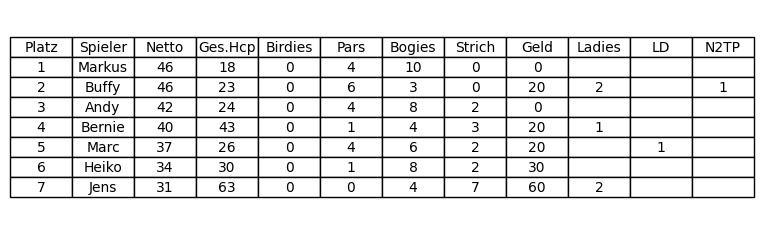
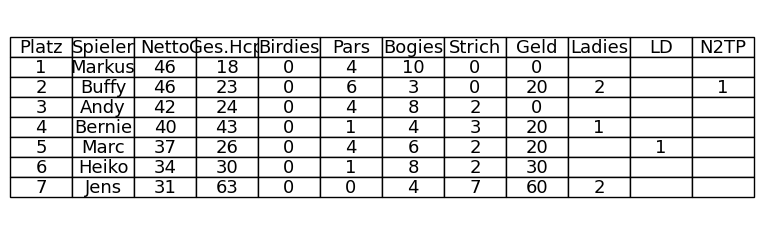
t

diff --git a/preprocess_pic.py b/preprocess_pic.py
@@ -1,46 +1,87 @@
 # preprocess_digits_no_rotate_no_crop.py
-import cv2
+try:
+    import cv2  # type: ignore
+    HAS_CV2 = True
+except Exception:
+    cv2 = None  # type: ignore
+    HAS_CV2 = False
+
 import numpy as np
 from pathlib import Path
 
+
+def _ensure_dir_for(path: str):
+    Path(path).parent.mkdir(parents=True, exist_ok=True)
+
+
 def preprocess(in_path: str, out_path: str):
-    img = cv2.imread(in_path)
-    assert img is not None, f"Bild nicht gefunden: {in_path}"
+    """
+    Preprocess scorecard images for OCR.
+    On platforms without OpenCV (e.g., Streamlit Cloud), falls back to PIL-based processing.
+    """
+    if HAS_CV2:
+        img = cv2.imread(in_path)
+        assert img is not None, f"Bild nicht gefunden: {in_path}"
 
-    # Signifikant verkleinern: längste Seite auf max. 1024 Pixel begrenzen
-    MAX_LONG_SIDE = 2048
-    h, w = img.shape[:2]
-    long_side = max(h, w)
-    if long_side > MAX_LONG_SIDE:
-        scale = MAX_LONG_SIDE / long_side
-        new_w, new_h = int(w * scale), int(h * scale)
-        img = cv2.resize(img, (new_w, new_h), interpolation=cv2.INTER_AREA)
+        # Signifikant verkleinern: längste Seite auf max. 1024 Pixel begrenzen
+        MAX_LONG_SIDE = 2048
+        h, w = img.shape[:2]
+        long_side = max(h, w)
+        if long_side > MAX_LONG_SIDE:
+            scale = MAX_LONG_SIDE / long_side
+            new_w, new_h = int(w * scale), int(h * scale)
+            img = cv2.resize(img, (new_w, new_h), interpolation=cv2.INTER_AREA)
 
-    # Graustufen
-    gray = cv2.cvtColor(img, cv2.COLOR_BGR2GRAY)
+        # Graustufen
+        gray = cv2.cvtColor(img, cv2.COLOR_BGR2GRAY)
 
-    # Leicht entrauschen (erhält Kanten)
-    gray = cv2.bilateralFilter(gray, d=5, sigmaColor=75, sigmaSpace=75)
+        # Leicht entrauschen (erhält Kanten)
+        gray = cv2.bilateralFilter(gray, d=5, sigmaColor=75, sigmaSpace=75)
 
-    # Adaptives Thresholding (robust bei ungleichmäßiger Beleuchtung)
-    bw = cv2.adaptiveThreshold(
-        gray, 255,
-        cv2.ADAPTIVE_THRESH_GAUSSIAN_C, cv2.THRESH_BINARY,
-        blockSize=31, C=8
-    )
+        # Adaptives Thresholding (robust bei ungleichmäßiger Beleuchtung)
+        bw = cv2.adaptiveThreshold(
+            gray, 255,
+            cv2.ADAPTIVE_THRESH_GAUSSIAN_C, cv2.THRESH_BINARY,
+            blockSize=31, C=8
+        )
 
-    # Kleine Artefakte entfernen
-    kernel = np.ones((2,2), np.uint8)
-    bw = cv2.morphologyEx(bw, cv2.MORPH_OPEN, kernel, iterations=1)
+        # Kleine Artefakte entfernen
+        kernel = np.ones((2, 2), np.uint8)
+        bw = cv2.morphologyEx(bw, cv2.MORPH_OPEN, kernel, iterations=1)
 
-    # Leicht Kontrast anheben
-    bw = cv2.convertScaleAbs(bw, alpha=1.15, beta=0)
+        # Leicht Kontrast anheben
+        bw = cv2.convertScaleAbs(bw, alpha=1.15, beta=0)
 
-    # Verlustfrei speichern (stark komprimiertes PNG)
-    Path(out_path).parent.mkdir(parents=True, exist_ok=True)
-    cv2.imwrite(out_path, bw, [cv2.IMWRITE_PNG_COMPRESSION, 9])
+        # Verlustfrei speichern (stark komprimiertes PNG)
+        _ensure_dir_for(out_path)
+        cv2.imwrite(out_path, bw, [cv2.IMWRITE_PNG_COMPRESSION, 9])
+    else:
+        # Fallback ohne OpenCV: PIL verwenden
+        from PIL import Image, ImageOps, ImageFilter
 
-    print(["Pic preprocess done: ", out_path])
+        img = Image.open(in_path)
+        # Signifikant verkleinern: längste Seite auf max. 1024 Pixel
+        MAX_LONG_SIDE = 1024
+        w, h = img.size
+        long_side = max(w, h)
+        if long_side > MAX_LONG_SIDE:
+            scale = MAX_LONG_SIDE / long_side
+            new_size = (int(w * scale), int(h * scale))
+            img = img.resize(new_size, Image.LANCZOS)
+
+        # In Graustufen konvertieren und leicht entrauschen
+        gray = img.convert("L").filter(ImageFilter.MedianFilter(size=3))
+        # Kontrast automatisch anpassen
+        gray = ImageOps.autocontrast(gray, cutoff=2)
+        # Einfaches Thresholding
+        bw = gray.point(lambda p: 255 if p > 180 else 0)
+
+        _ensure_dir_for(out_path)
+        # PNG speichern mit Optimierung
+        bw.save(out_path, format="PNG", optimize=True)
+
+    print(["Pic preprocess done:", out_path])
+
 
 if __name__ == "__main__":
 

diff --git a/ranking_table.py b/ranking_table.py
@@ -55,7 +55,7 @@ def make_ranking_table(players: dict, save_path: str | None = None, show: bool =
     )
 
     table.auto_set_font_size(False)
-    table.set_fontsize(10)
+    table.set_fontsize(13)
     table.scale(1.2, 1.2)
 
     # plt.title("Ranking of the Day", fontsize=14, pad=20)
@@ -71,18 +71,25 @@ def make_ranking_table(players: dict, save_path: str | None = None, show: bool =
 def main():
     json_file = "json/allrounds.json"
     #json_file = "json/golf_df/golf_df.json"
-    #date_key = "30.09.2025"  # gewünschtes Datum
-
     # Load JSON data from a file
     with open(json_file, 'r') as file:
         data = json.load(file)  # Parse the JSON file into a Python dictionary
+    ### one file
+    """
+    date_key = "02.10.2025"  # gewünschtes Datum
 
+    
+
+    players = load_round(json_file, date_key)
+    make_ranking_table(players, save_path=f"rankings/{date_key}.png", show=False) 
+    """
+    
     # Loop over all the first-level keys
     for key in data.keys():
         print(f"Key: {key}")
         players = load_round(json_file, key)
         # make_ranking_table(players, save_path=f"rankings/{key}.png", show=False)   
         show_scorecard(json_file, key, save_path=f"scorecards/{key}.png", show=False)
-
+    
 if __name__ == "__main__":
     main()
